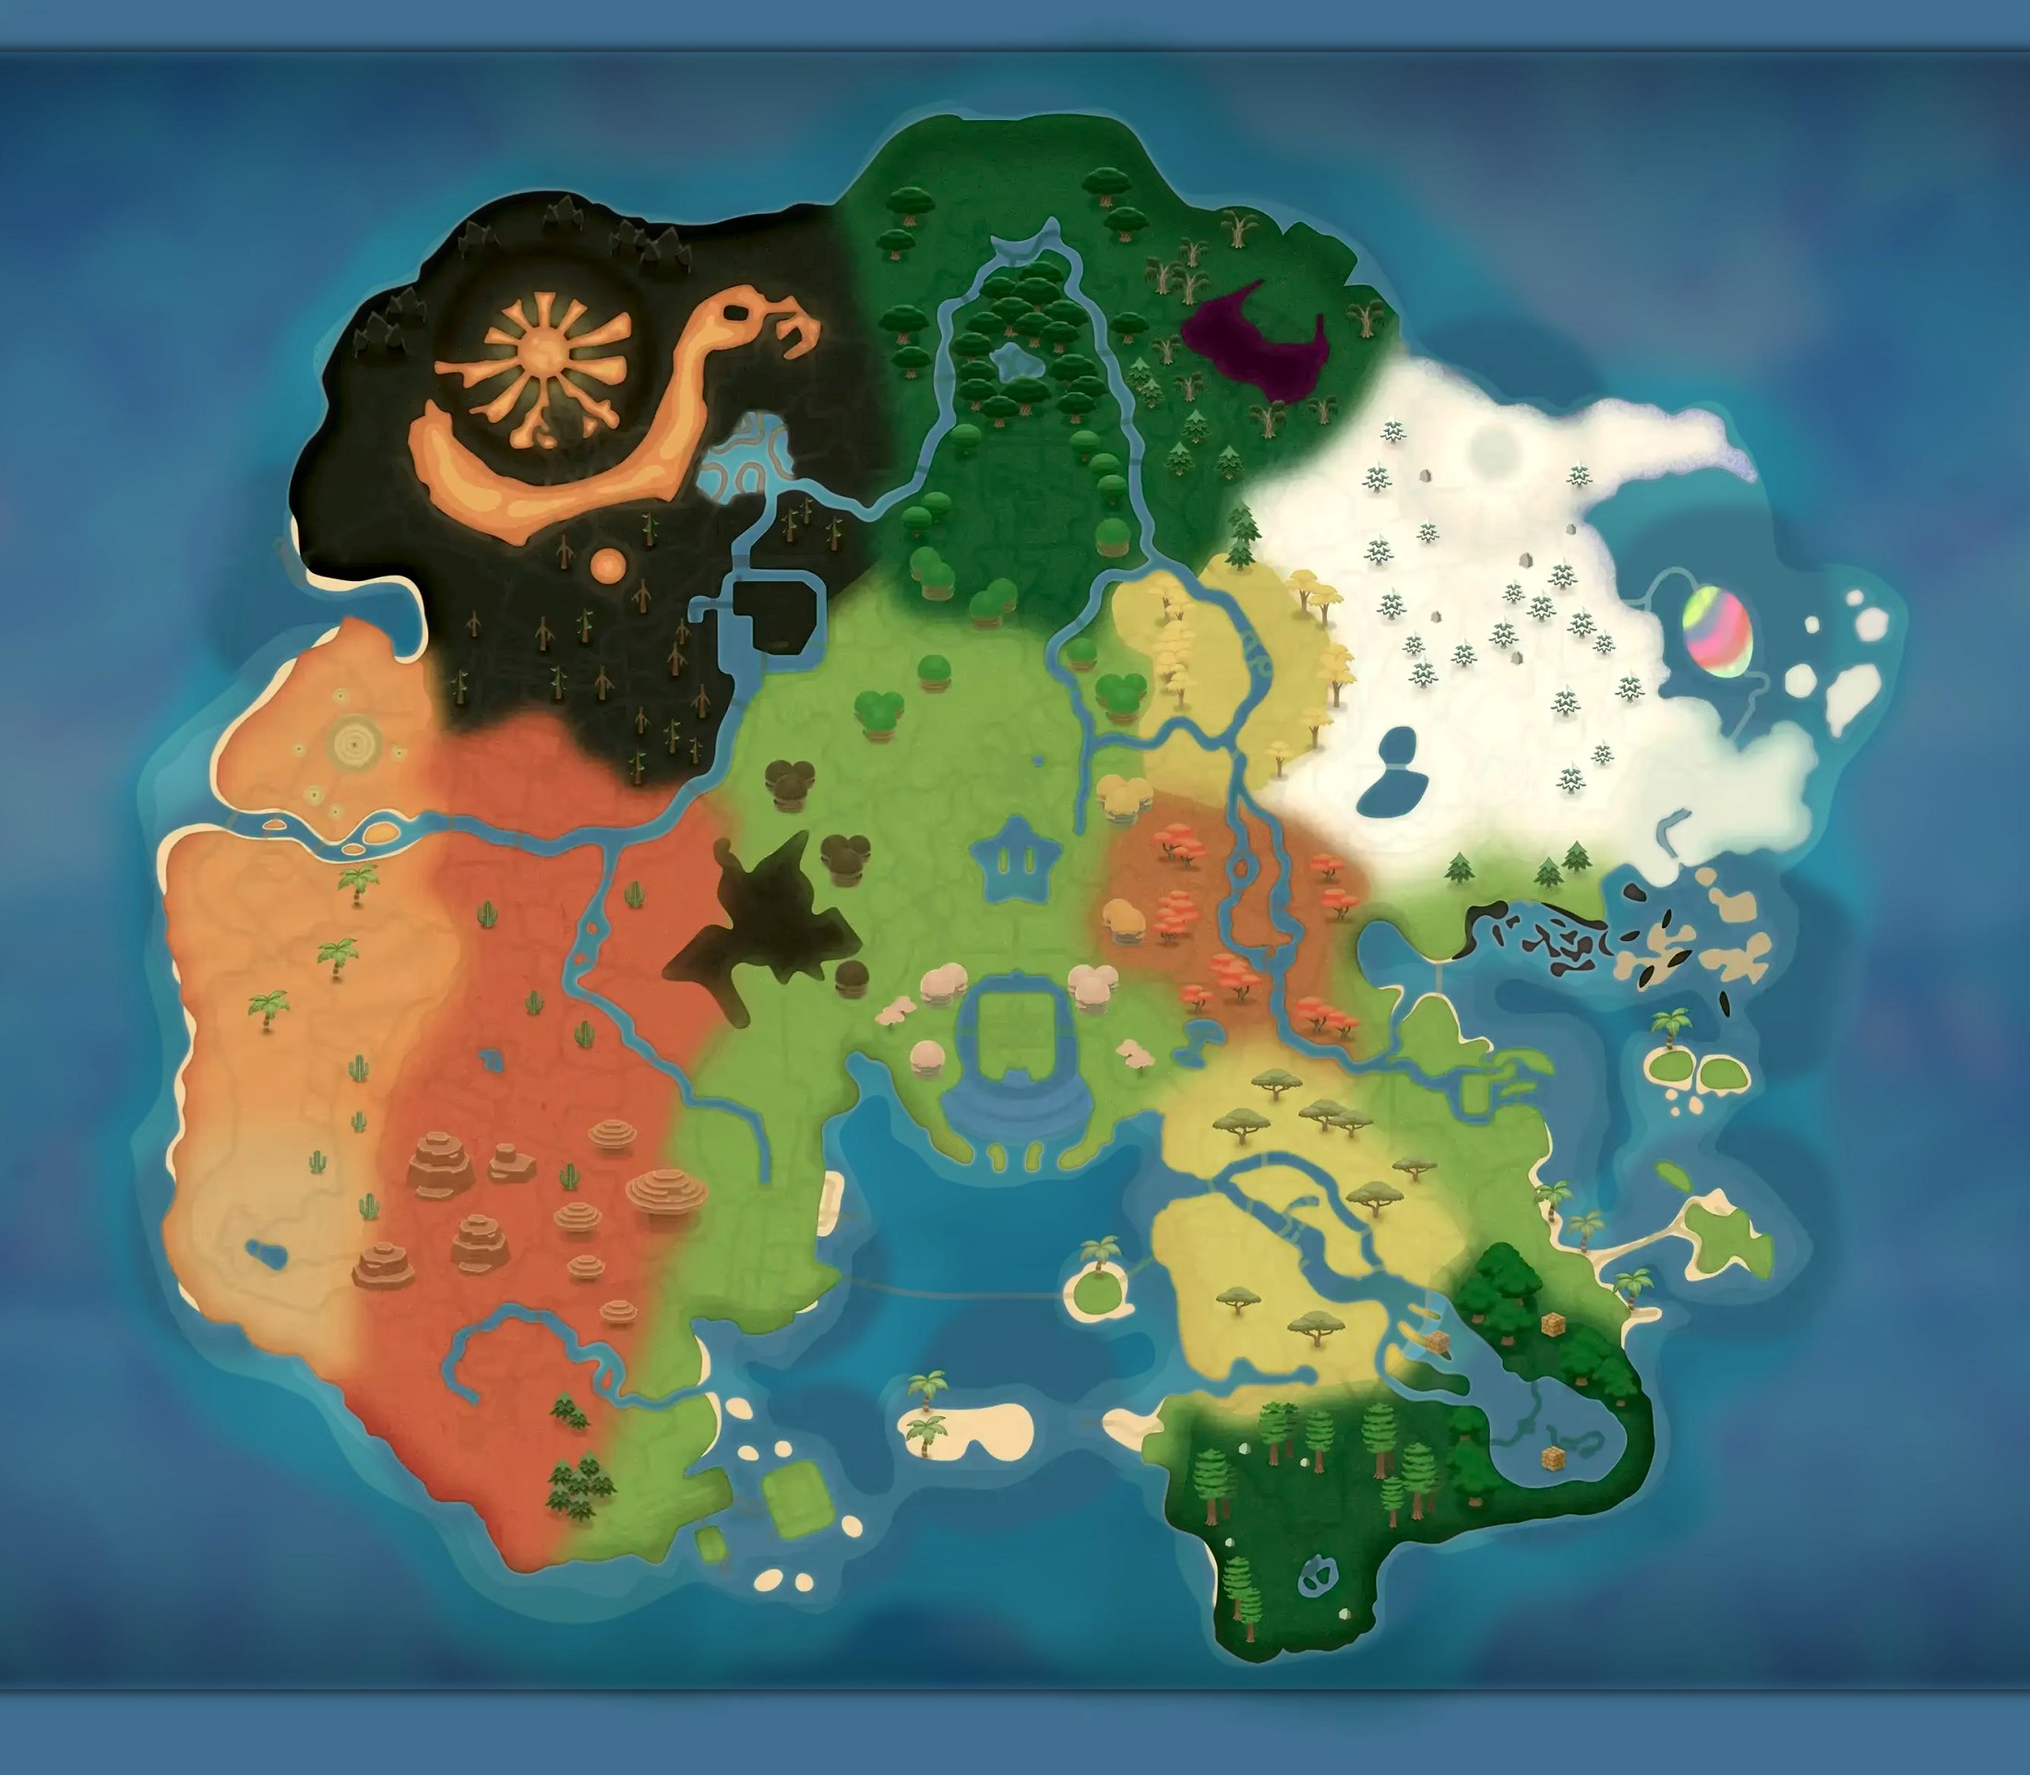
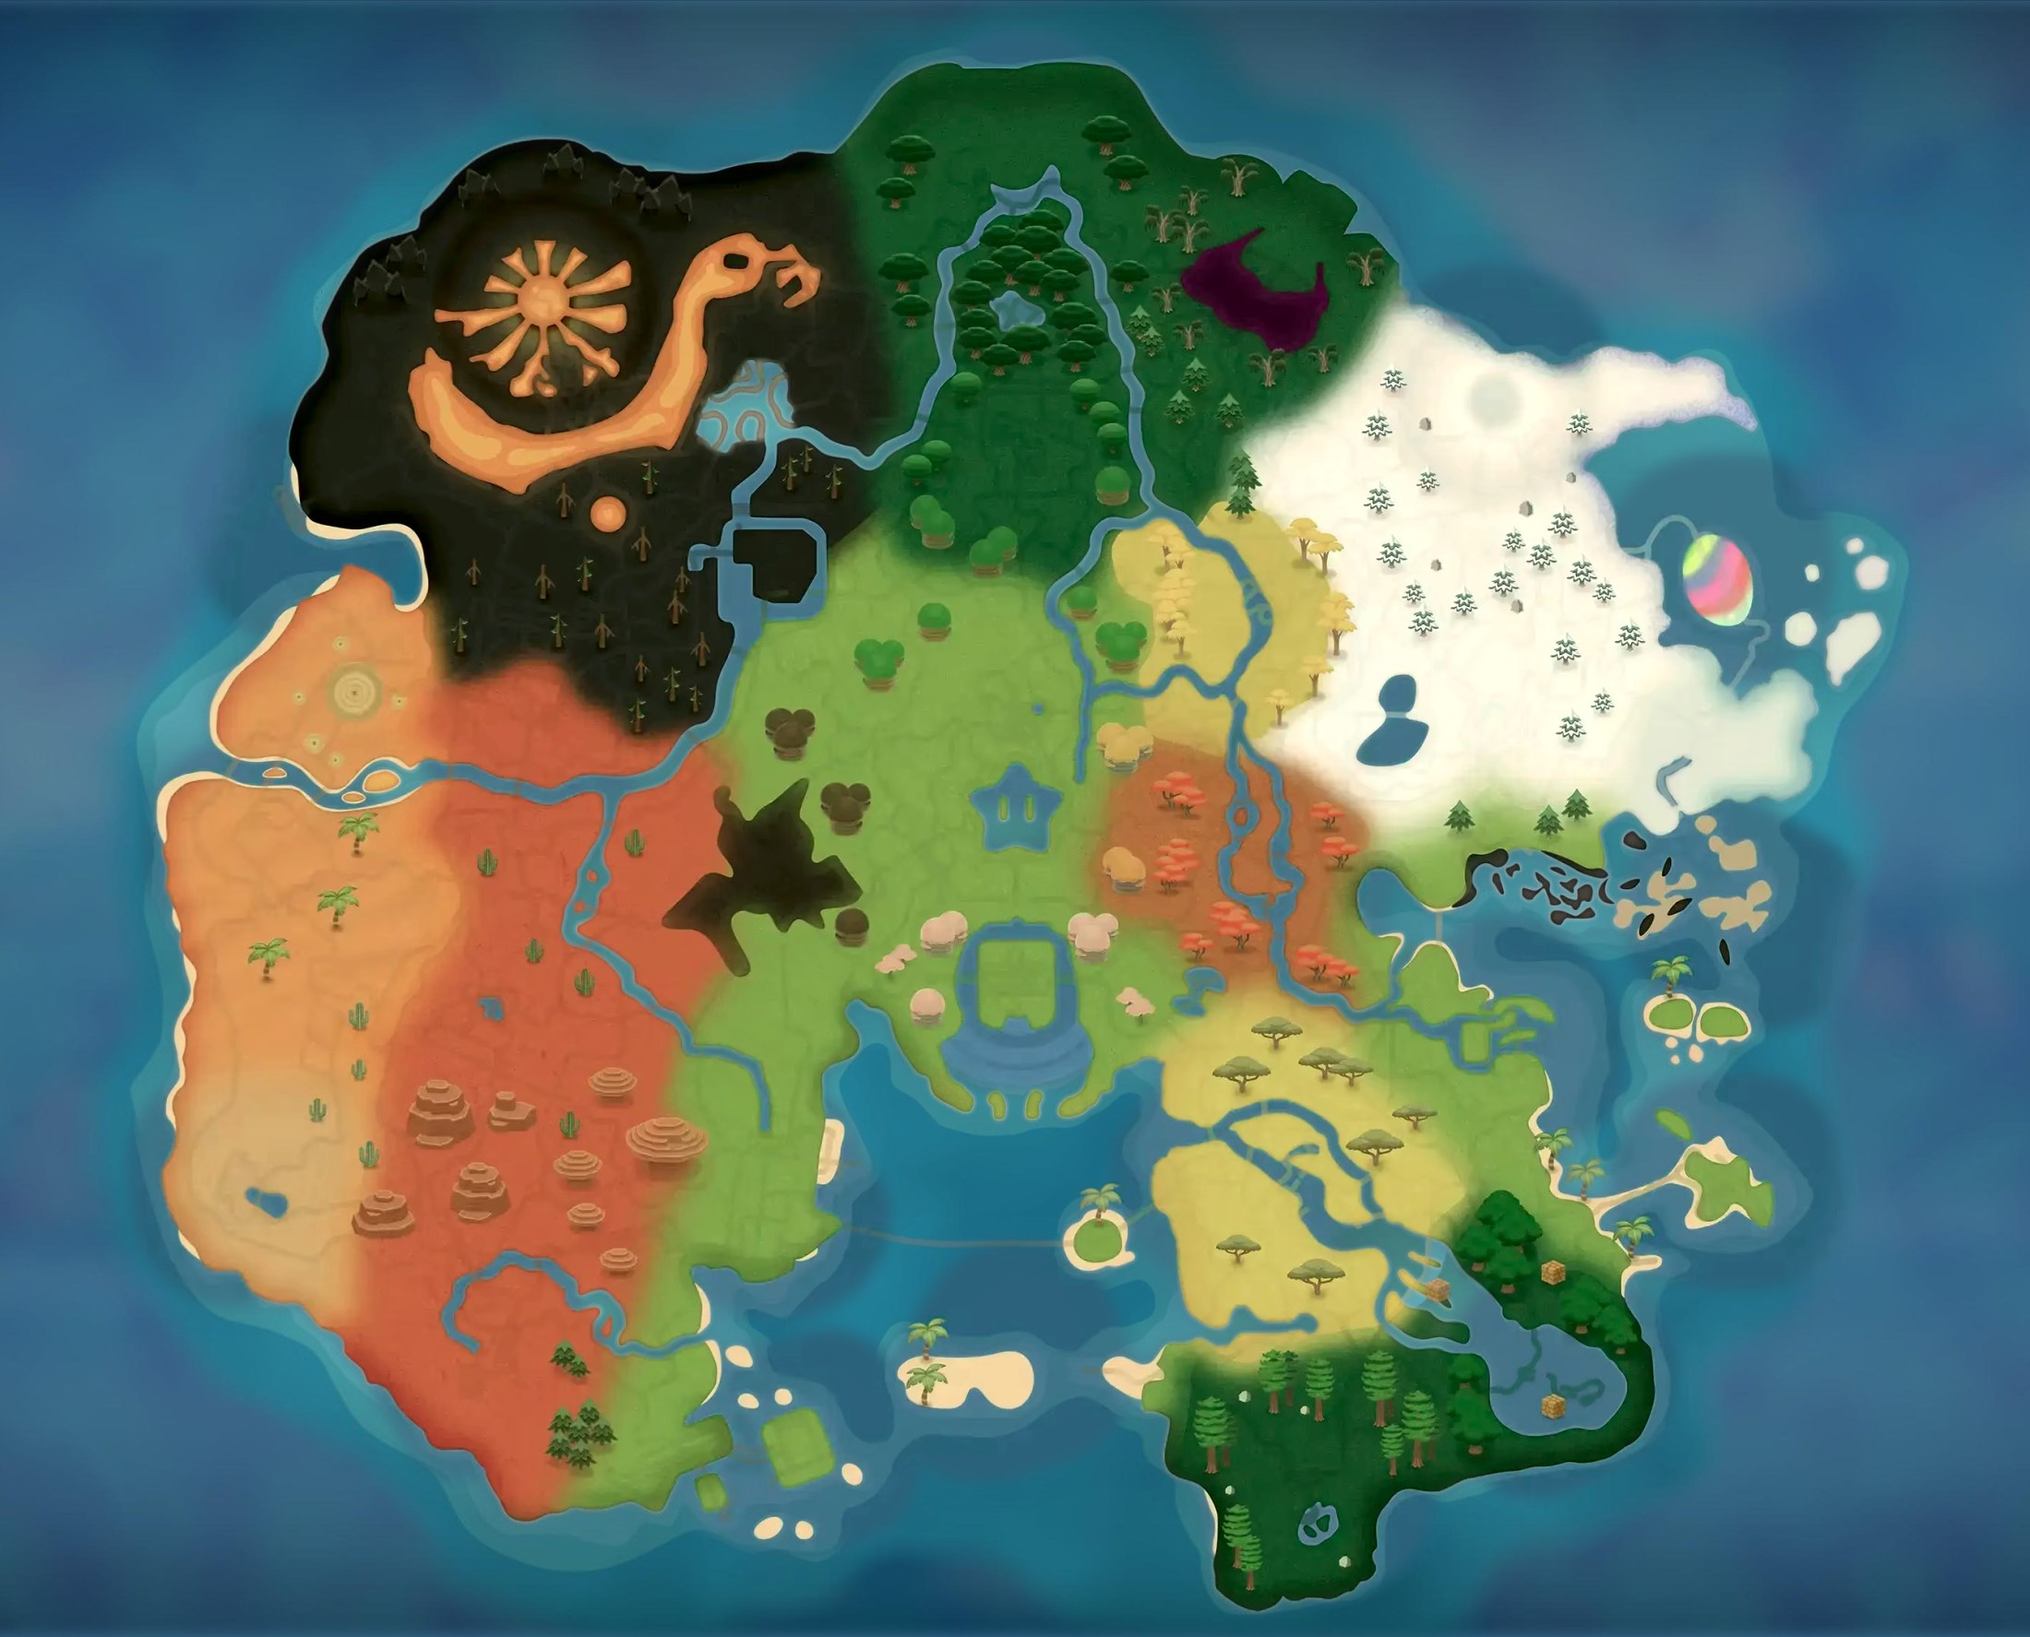
fix(map): crop to the hi-res coverage (drop the flat-ocean top/bottom strips)
The warped hi-res is a wider aspect than the inner frame, so it left top/bottom
strips uncovered where the flat inner ocean showed through. Crop the base to the
region the warp actually reaches and shift/renormalize all sprite coords to the
cropped frame (no icons fall outside; topmost 0.05, bottommost 0.94).

diff --git a/scripts/map/build_map_assets.py b/scripts/map/build_map_assets.py
@@ -187,16 +187,23 @@ def main():
     wf = (cv2.GaussianBlur(water.astype(np.float32), (0, 0), 10) / 255.0)[:, :, None]
     base = (graded * (1 - wf) + warped * wf).astype(np.uint8)
 
-    # emit base + sprites + manifest (everything normalized to the inner/stages frame).
-    bh_out = round(Hs * BASE_W / Ws)
+    # crop to where the hi-res warp actually reaches: outside it (top/bottom strips, since hires is a
+    # wider aspect than inner) the flat 'old' inner ocean shows. Crop the base + shift all coords.
+    cov = warped.sum(2) > 24
+    rows = np.where(cov.mean(1) > 0.92)[0]; cols = np.where(cov.mean(0) > 0.92)[0]
+    cy0, cy1, cx0, cx1 = int(rows.min()), int(rows.max()) + 1, int(cols.min()), int(cols.max()) + 1
+    base = base[cy0:cy1, cx0:cx1]; Hc, Wc = base.shape[:2]
+
+    # emit base + sprites + manifest (everything normalized to the cropped frame).
+    bh_out = round(Hc * BASE_W / Wc)
     cv2.imwrite(str(OUT / "base.jpg"), cv2.resize(base, (BASE_W, bh_out), interpolation=cv2.INTER_AREA),
                 [cv2.IMWRITE_JPEG_QUALITY, 88])
     manifest = {"base": {"w": BASE_W, "h": bh_out}, "courses": []}
     for slug, bgra, gx0, gy0 in placed:
         cv2.imwrite(str(OUT / "sprites" / f"{slug}.png"), bgra)
-        oh, ow = bgra.shape[:2]; cx, cy = gx0 + ow / 2, gy0 + oh / 2
-        spr = {"x": gx0 / Ws, "y": gy0 / Hs, "w": ow / Ws, "h": oh / Hs}
-        hit = {"x": (cx - ow * 0.30) / Ws, "y": (cy - oh * 0.22) / Hs, "w": ow * 0.60 / Ws, "h": oh * 0.60 / Hs}
+        oh, ow = bgra.shape[:2]; gx, gy = gx0 - cx0, gy0 - cy0; cx, cy = gx + ow / 2, gy + oh / 2
+        spr = {"x": gx / Wc, "y": gy / Hc, "w": ow / Wc, "h": oh / Hc}
+        hit = {"x": (cx - ow * 0.30) / Wc, "y": (cy - oh * 0.22) / Hc, "w": ow * 0.60 / Wc, "h": oh * 0.60 / Hc}
         manifest["courses"].append({"slug": slug, "name": canon[slug],
                                     "hit": {k: round(v, 5) for k, v in hit.items()},
                                     "spr": {k: round(v, 5) for k, v in spr.items()}})
